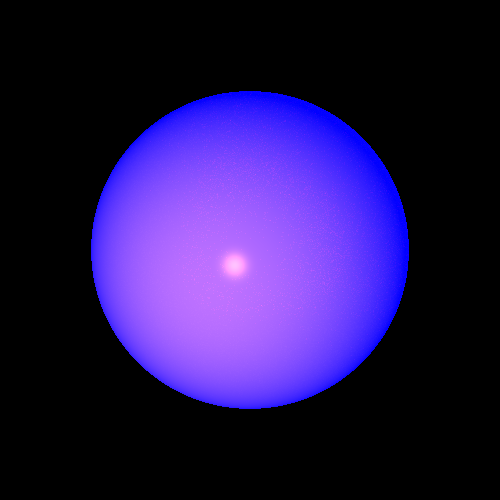
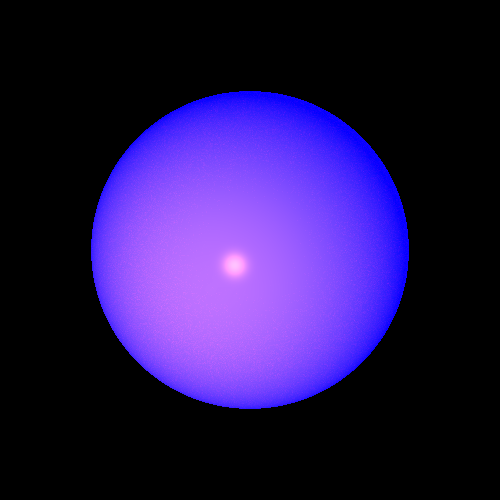
added depth start algo

diff --git a/src/renderer/Camera.java b/src/renderer/Camera.java
@@ -5,7 +5,7 @@ import primitives.Point;
 import primitives.Ray;
 import primitives.Vector;
 
-import java.util.MissingResourceException;
+import java.util.*;
 
 import static primitives.Util.*;
 
@@ -39,16 +39,58 @@ public class Camera {
      * height of view plane
      */
     private int _height;
-
+// A random number generator.
+private Random random = new Random();
+    // A private variable that is used to write the image to the screen.
     private ImageWriter _imageWriter;
+    // A private variable that is used to write the image to the screen.
     private RayTracer _rayTracer;
+    /**
+     * Distance of the depth of field plane from the view plane
+     */
+    private double _focusField;
+
+    /**
+     * Radius of the aperture
+     */
+    private double _apertureFieldDistance;
+
+
+    // The radius of the aperture.
+    private double _apertureFieldRadius;
+    /**
+     * Set the aperture field of the camera.
+     *
+     * @param focusField The aperture field of the camera.
+     * @return The camera object itself.
+     */
+
+    public Camera setFocusField(double focusField) {
+        _focusField = focusField;
+        return this;
+    }
+
+    /**
+     * This function sets the aperture field radius of the camera
+     *
+     * @param apertureFieldRadius The radius of the aperture field.
+     * @return The camera object itself.
+     */
+    public Camera setApertureFieldRadius(double apertureFieldRadius) {
+        _apertureFieldRadius = apertureFieldRadius;
+        return this;
+    }
+
+
 
     /**
      * Camera constructor based-on point and 2 vectors
      * @param p0 {@link Point} position
-     * @param vto {@link java.util.Vector}
-     * @param vup {@link  java.util.Vector}
+     * @param vto {@link Vector}
+     * @param vup {@link  Vector}
      */
+    // This is the constructor of the camera. It receives 3 vectors: p0, vto and vup. The function checks if the vectors
+    // are orthogonal. If they are not, it throws an exception. If they are, it sets the vectors to the camera.
     public Camera(Point p0, Vector vto, Vector vup) {
         if (!isZero(vto.dotProduct(vup))) {
             throw new IllegalArgumentException("vup and vto aren't orthogonal");
@@ -161,6 +203,12 @@ public class Camera {
         _imageWriter.writeToImage();
     }
 
+    /**
+     * This function prints a grid on the image
+     *
+     * @param interval the interval between the lines.
+     * @param color the color of the grid lines.
+     */
     public void printGrid(int interval, Color color) {
         if (_imageWriter == null) {
             throw new MissingResourceException("missing resource", ImageWriter.class.getName(), "");
@@ -210,7 +258,29 @@ public class Camera {
             return _rayTracer.traceRay(constructRay(nX,nY,(int)j,(int)i));
         }
 
+
+    private Point calcFocalFieldPoint(Ray ray) {
+        double len= _focusField /_vTo.dotProduct(ray.getDir());
+        return ray.getPoint(len);
     }
+    private Point calcApertureFieldPoint(Ray ray) {
+        double len= _apertureFieldDistance /_vTo.dotProduct(ray.getDir());
+        return ray.getPoint(len);
+    }
+    private      List<Point> get4PointOnAperture(Ray ray)
+    {
+        List<Point> points=new LinkedList<>() ;
+            Point apertureCenter= calcApertureFieldPoint( ray);
+
+        for (int i=0 ;i<4;i++){
+            Point p = apertureCenter.add(_vUp.scale(random(0,_apertureFieldRadius))).add(_vRight.scale(random(0,_apertureFieldRadius)));
+            points.add(p);
+        }
+        return points;
+    }
+
+
+}
 
 
 

diff --git a/src/primitives/Material.java b/src/primitives/Material.java
@@ -1,12 +1,21 @@
 package primitives;
 
 public class Material {
-   public Double3 _kD=new Double3(0d);
-   public Double3 _kS=new Double3(0d);
-   public Double3 _kT=new Double3(0d);
-   public Double3 _kR=new Double3(0d);
-   public Double3 _kG=new Double3(1d);
-    public int nShininess=0;
+    // Initializing the variables.
+
+    public Double3 _kD=new Double3(0d);
+    public Double3 _kS=new Double3(0d);
+    public Double3 _kT=new Double3(0d);
+    public Double3 _kR=new Double3(0d);
+    /**
+     *glossiness factor
+     */
+    public Double3 _kG=new Double3(1);
+
+    /**
+     *shininess factor
+     */
+    public int _nShininess=0;
 
     public Material setKd(double kD) {
         _kD = new Double3(kD);
@@ -18,13 +27,26 @@ public class Material {
         _kS = new Double3(kS);
         return this;
     }
+    /**
+     * Set the material's kG value to the square root of the given value.
+     *
+     * @param kG The absorption coefficient of the material.
+     * @return The material object itself.
+     */
     public Material setKg(double kG) {
         _kG = new Double3(Math.pow(kG, 0.5));
         return this;
     }
 
+
+    /**
+     * Set the shininess of the material.
+     *
+     * @param nShininess The shininess of the material.
+     * @return The material object itself.
+     */
     public Material setnShininess(int nShininess) {
-        this.nShininess = nShininess;
+        _nShininess = nShininess;
         return this;
     }
 
@@ -36,8 +58,9 @@ public class Material {
         return _kS;
     }
 
+    // A getter function for the shininess factor.
     public int getnShininess() {
-        return nShininess;
+        return _nShininess;
     }
 
     public Material setKr(double kR) {

diff --git a/unitTests/renderer/ReflectionRefractionTests.java b/unitTests/renderer/ReflectionRefractionTests.java
@@ -36,8 +36,8 @@ public class ReflectionRefractionTests {
 
 		scene._geometries.add( //
 				new Sphere(new Point(0, 0, -50), 50d).setEmission(new Color(BLUE)) //
-						.setMaterial(new Material().setKd(0.4).setKs(0.3).setnShininess(100).setKt(0.3)),
-				new Sphere(new Point(0, 0, -50), 25d).setEmission(new Color(RED)) //
+						.setMaterial(new Material().setKd(0.4).setKs(0.3).setnShininess(100).setKt(0.3).setKg(0.7)),
+	            new Sphere(new Point(0, 0, -50), 25d).setEmission(new Color(RED)) //
 						.setMaterial(new Material().setKd(0.5).setKs(0.5).setnShininess(100)));
 		scene.lights.add( //
 				new SpotLight(new Color(1000, 600, 0), new Point(-100, -100, 500), new Vector(-1, -1, -2)) //

diff --git a/src/renderer/RayTracerBasic.java b/src/renderer/RayTracerBasic.java
@@ -47,7 +47,6 @@ public class RayTracerBasic extends RayTracer {
         if (glossinessRays <= 0) {
             throw new IllegalArgumentException("number of glossiness rays should be greater than 0");
         }
-
         _glossinessRays = glossinessRays;
         return this;
     }
@@ -325,7 +324,7 @@ public class RayTracerBasic extends RayTracer {
       //  Vector r = v.add(n2vn);
         Vector r=new Vector(v.add(n2vn).get_xyz());
         // If kG is equals to 1 then return only 1 ray, the specular ray (r)
-        if (new Double3(1d)==kG) {
+        if ( Double3.ONE==kG) {
             return new Ray[]{new Ray(point, n, r)};
         }
 
